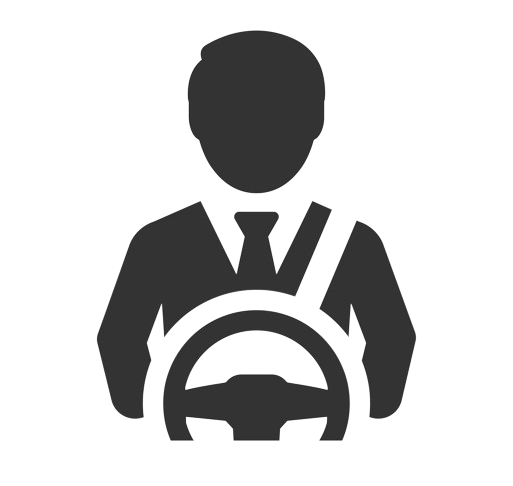
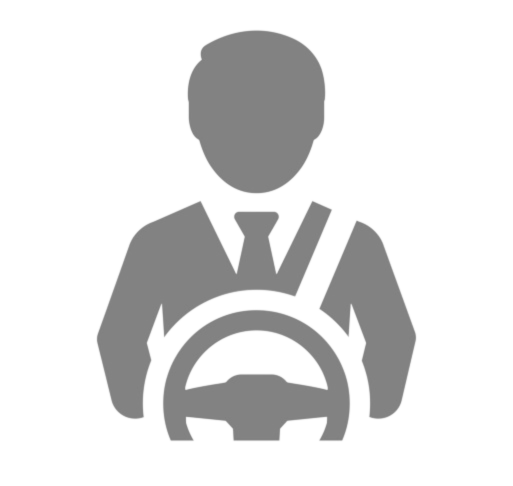
complete styling

Changed region(s): [[0.1871, 0.4012, 0.8109, 0.9259], [0.3431, 0.0617, 0.655, 0.4012]]

diff --git a/Code/Client/users/src/pages/career/driver/registration/drivermail.module.css b/Code/Client/users/src/pages/career/driver/registration/drivermail.module.css
@@ -10,21 +10,29 @@
 
 .mainSection{
     width: 60%;
-    padding: 2.5rem 5rem 2.5rem 6.5rem;
+    padding: 2.3rem 5rem 2.5rem 6.5rem;
 }
 
-.language {
+.header {
     display: flex;
-    justify-content: flex-end;
+    justify-content: space-between;
+}
+
+.header img{
+    width: 3.8rem;
+    height: 3.3rem;
+}
+
+.header p{
     border: 1px solid rgba(0, 0, 0, 0.2);
-    margin-left: 27rem;
+    align-self: center;
     padding: 8px 12px;
     font-size: 14px;
     color: rgb(121, 121, 121);
 }
 
 .heading{
-    margin: 3rem 0rem 1rem 0rem;
+    margin: 2.2rem 0rem 1rem 0rem;
     letter-spacing: 0.01em;
     color: #3B3B4f;
 }

diff --git a/Code/Client/users/src/pages/career/driver/registration/DriverEmail.js b/Code/Client/users/src/pages/career/driver/registration/DriverEmail.js
@@ -11,7 +11,8 @@ export default function DriverEmail() {
         </div>
 
         <div className={styles.mainSection}>
-          <div className={styles.language}>
+          <div className={styles.header}>
+            <img src="./assets/images/career/driver_icon.png" alt=""/>
             <p>English (United Kingdom)</p>
           </div>
 
